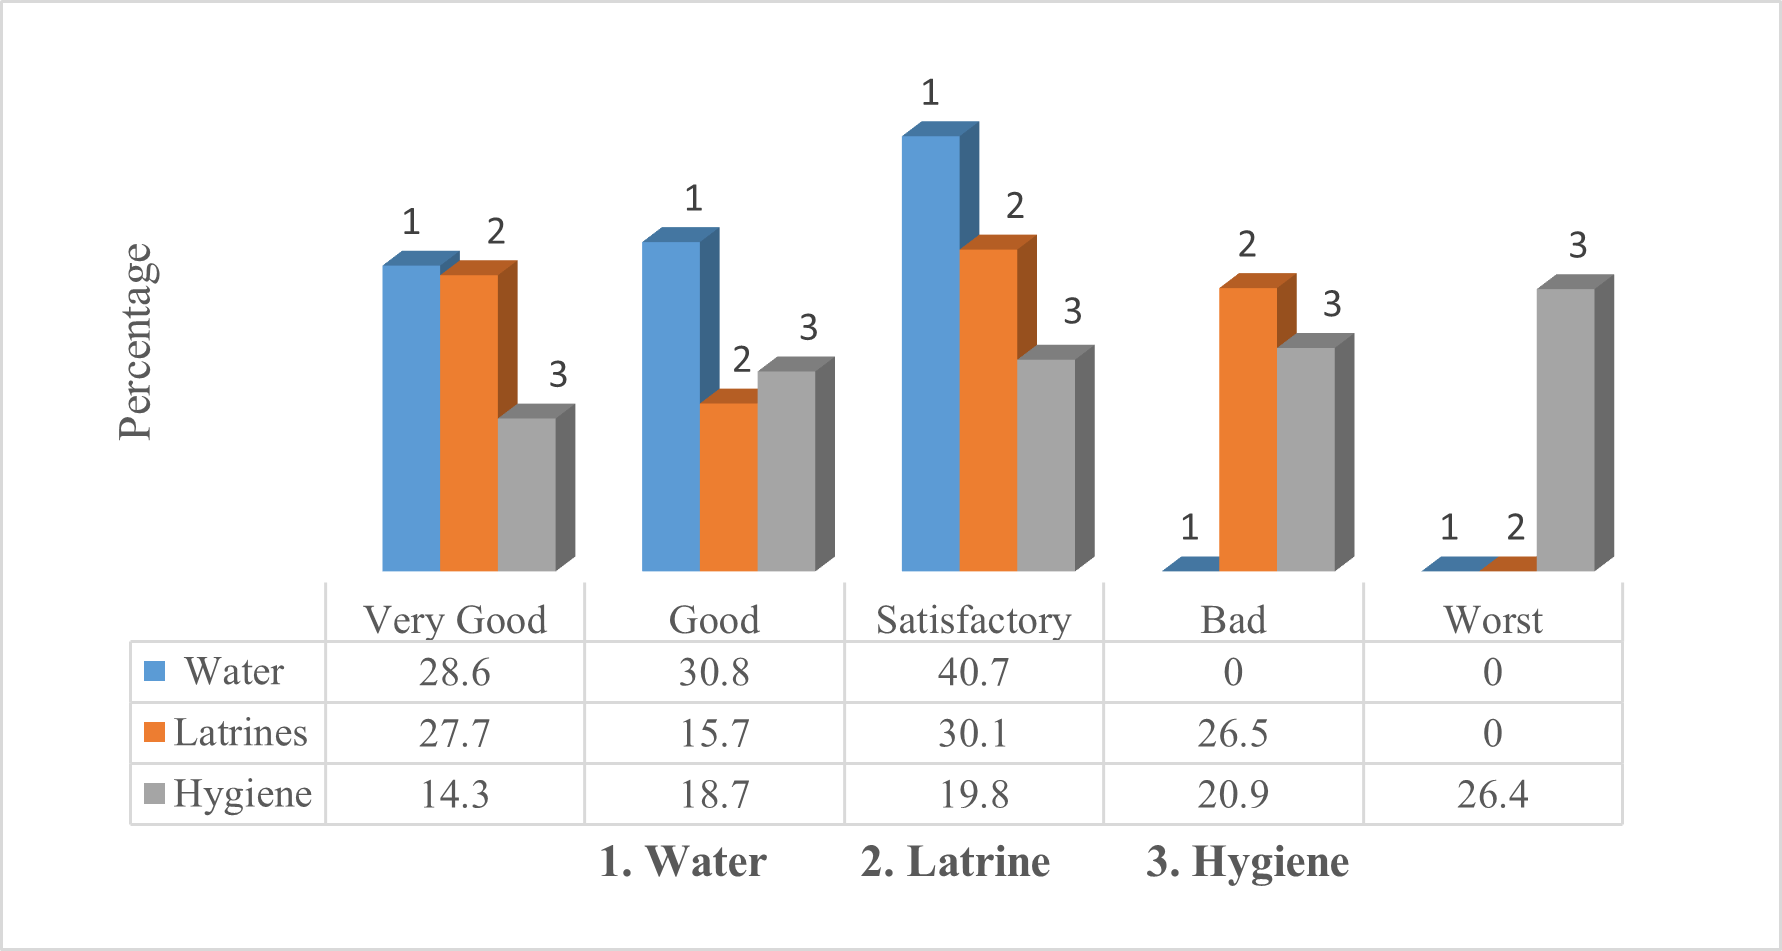
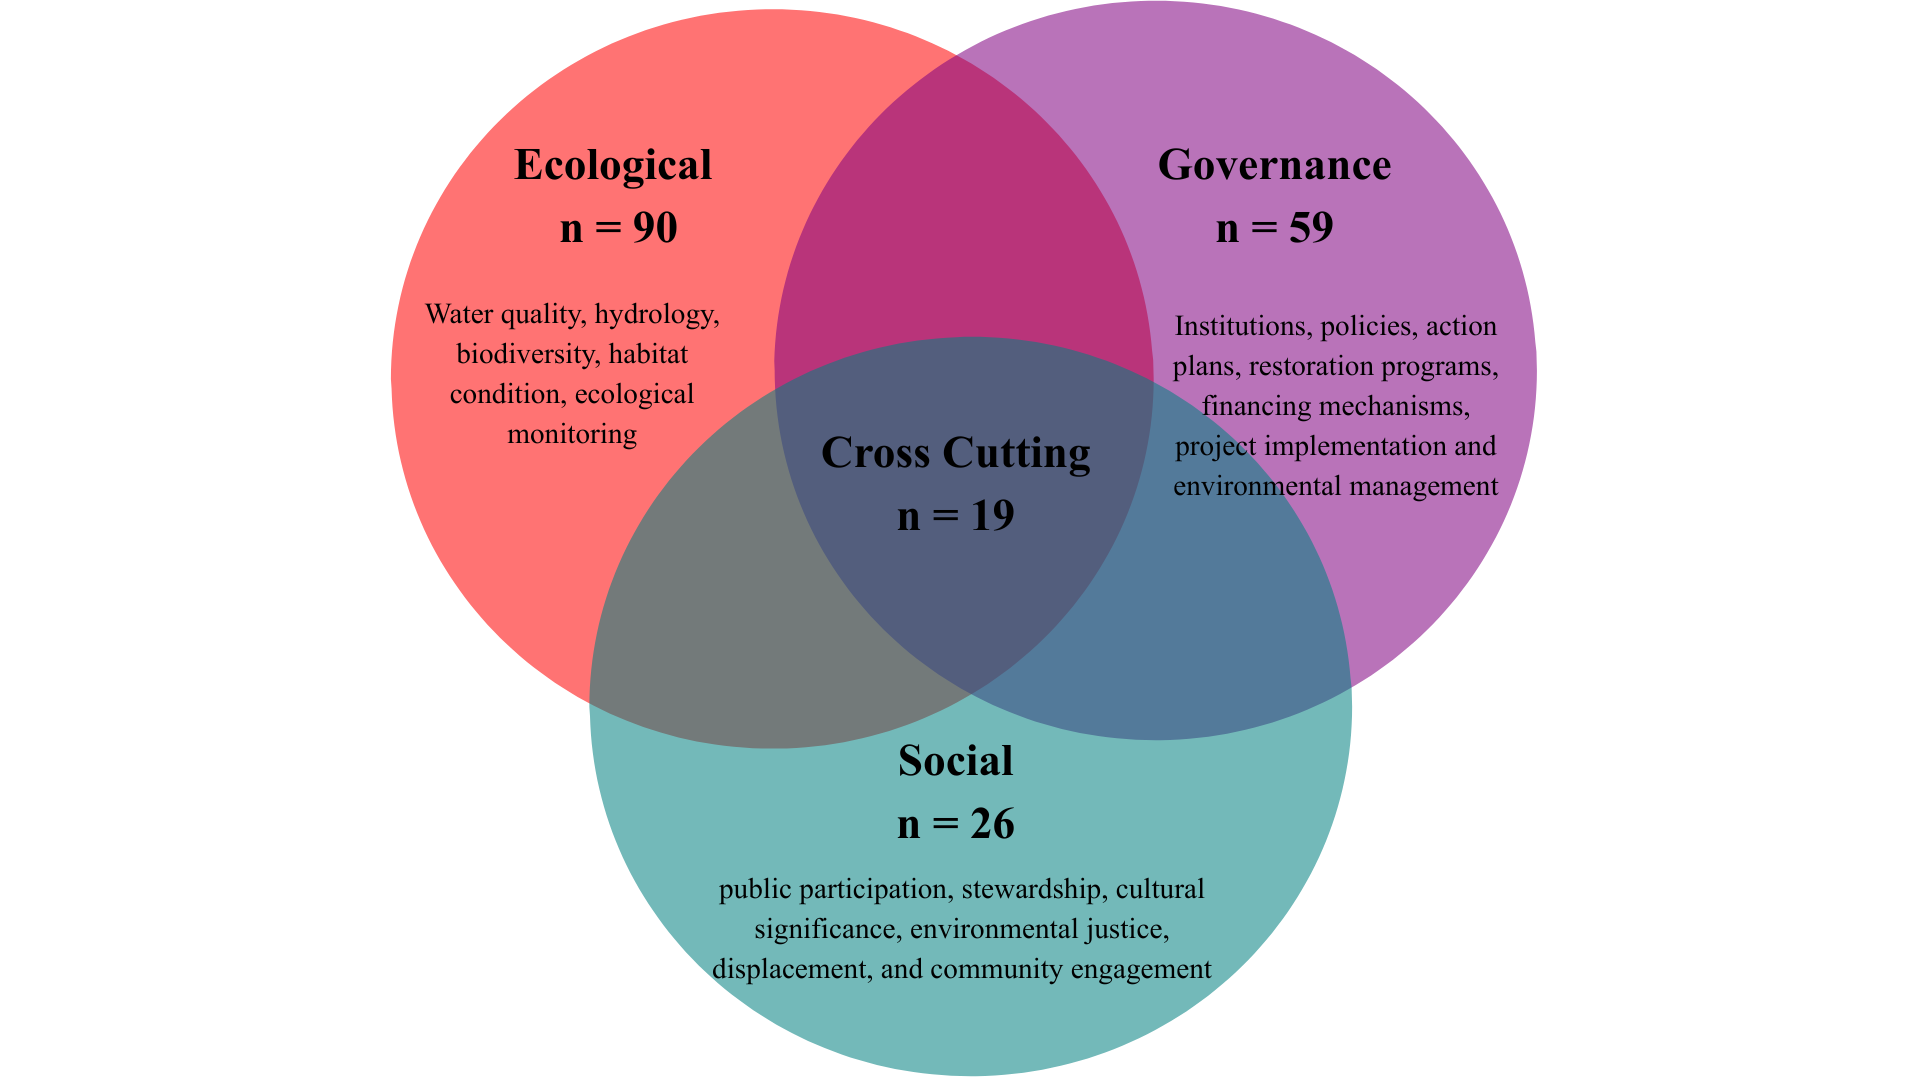
Add 📁 Projects "socio-ecological-assessment-of-bagmati-river-restoration-2000-2026"

diff --git a/content/projects/socio-ecological-assessment-of-bagmati-river-restoration-2000-2026.md b/content/projects/socio-ecological-assessment-of-bagmati-river-restoration-2000-2026.md
@@ -1,0 +1,58 @@
+---
+title: Socio-Ecological Assessment of Bagmati River Restoration (2000-2026)
+shortDesc: >-
+  The Bagmati River is one of Nepal’s most important cultural, religious, and
+  ecological resources, flowing through the Kathmandu Valley and supporting
+  millions of people. Over recent decades, rapid urbanization, untreated
+  wastewater discharge, floodplain encroachment, and habitat degradation have
+  severely affected the river’s health, resulting in poor water quality,
+  biodiversity loss, and declining ecosystem services.
+
+
+  This project presents a comprehensive socio-ecological assessment of the Bagmati River restoration trajectory from 2000 to 2026. It examines how ecological conditions, governance initiatives, and community participation have interacted to influence restoration outcomes. The study reviews major interventions including the Bagmati Action Plan, Bagmati River Basin Improvement Project, Dhap Dam, riverfront development, wastewater management programs, and citizen-led cleanup campaigns.
+year: "2026"
+category: research
+image: ""
+gallery:
+  - src: /images/1.png
+    caption: "Analytical framework: restoration outcomes as an interaction of
+      ecological, governance, and social dimensions"
+  - src: /images/chatgpt-image-jul-28-2026-08_02_00-pm.png
+    caption: Evolution of Bagmati Restoration Approach Over the Decades
+report:
+  label: Download Report
+displayMode: fullpage
+popupVisLabel: ""
+showGallery: false
+showDetail: false
+showVideo: false
+showReport: false
+showRelatedPubs: false
+fullpageVisLabel: ""
+fpShowShortDesc: true
+fpShowGallery: false
+fpShowDetail: false
+fpShowVideo: false
+fpShowReport: false
+fpShowRelatedPubs: false
+order: 0
+---
+# **Background**
+
+The Bagmati River is one of Nepal's most culturally, religiously, and ecologically significant river systems. Originating from Baghdwar in the Shivapuri Hills and flowing through the Kathmandu Valley, the river supports urban livelihoods, cultural heritage, biodiversity, and ecosystem services. However, rapid urbanization, population growth, untreated wastewater discharge, riverbank encroachment, solid waste accumulation, and hydrological alterations have severely degraded the river over the past few decades. These pressures have resulted in declining water quality, biodiversity loss, reduced environmental flows, and deterioration of ecosystem services that are essential for human well-being.
+
+# **Project Objective**
+
+This project evaluates the restoration trajectory of the Bagmati River from 2000 to 2026 through an integrated socio-ecological framework. Unlike conventional restoration assessments that focus solely on environmental indicators, this study investigates the interactions among ecological conditions, governance interventions, and social engagement. The aim is to understand why ecological recovery has remained limited despite substantial investments, policy reforms, infrastructure development, and public participation initiatives.
+
+# **Methodology**
+
+The assessment synthesizes evidence from scientific literature, government publications, development agency reports, policy documents, and community-based initiatives. Restoration efforts including the Bagmati Action Plan, the Bagmati River Basin Improvement Project (BRBIP), the establishment of the High-Powered Committee for Integrated Development of the Bagmati Civilization (HPCIDBC), wastewater management programs, riverfront development, the Dhap Dam project, and the Bagmati Cleanup Campaign were critically reviewed to evaluate their ecological, governance, and social outcomes.
+
+# Key Findings
+
+The study reveals that despite more than two decades of restoration efforts and significant financial investments, ecological recovery remains limited. Water quality in urban stretches continues to exhibit severe pollution characterized by low dissolved oxygen levels, high biochemical oxygen demand, microbial contamination, and declining aquatic biodiversity. Governance improvements have expanded institutional capacity and monitoring systems; however, fragmented responsibilities, weak policy implementation, and delayed infrastructure development continue to constrain restoration outcomes. Socially, the restoration process has benefited from widespread public participation through cleanup campaigns and awareness programs, yet challenges related to resettlement, environmental justice, and community trust remain significant barriers to long-term success.
+
+The findings demonstrate that restoration outcomes are determined not by individual projects but by the interaction of ecological processes, governance effectiveness, and social legitimacy. Progress in one dimension cannot compensate for shortcomings in another. While infrastructure investments have increased, ecological gains have lagged behind due to persistent pollution sources, inadequate basin-scale coordination, and socio-political conflicts. The Bagmati case highlights the importance of viewing river restoration as a long-term socio-ecological transformation rather than a series of isolated engineering interventions.
+
+Future restoration of the Bagmati River should prioritize integrated river basin management, strengthened inter-agency coordination, comprehensive wastewater treatment, environmental flow protection, riparian habitat restoration, and continuous ecological monitoring. Equally important is the inclusion of local communities through participatory decision-making, transparent governance, and socially equitable resettlement practices. By aligning ecological restoration with governance reforms and community engagement, the Bagmati River can move toward sustainable recovery and provide valuable lessons for urban river restoration initiatives across South Asia and other rapidly urbanizing regions.
